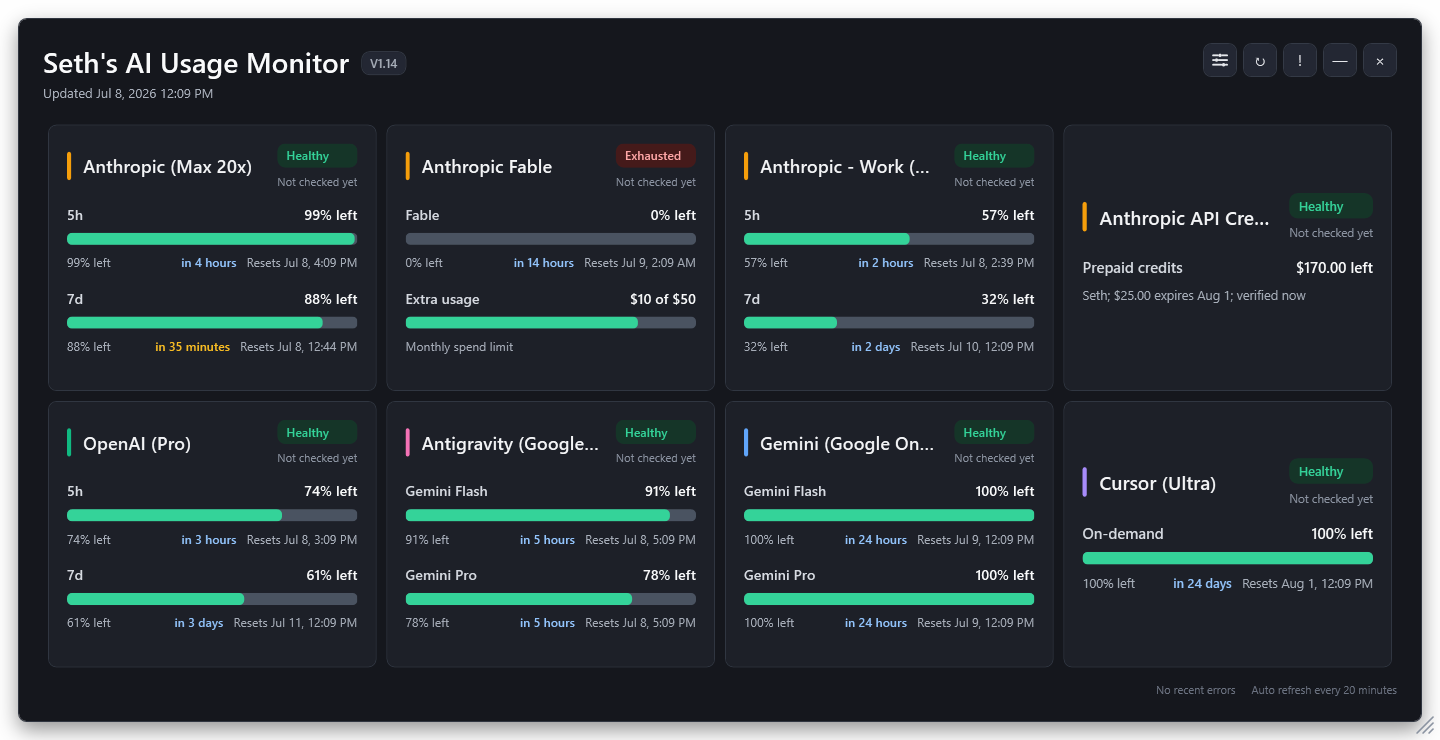
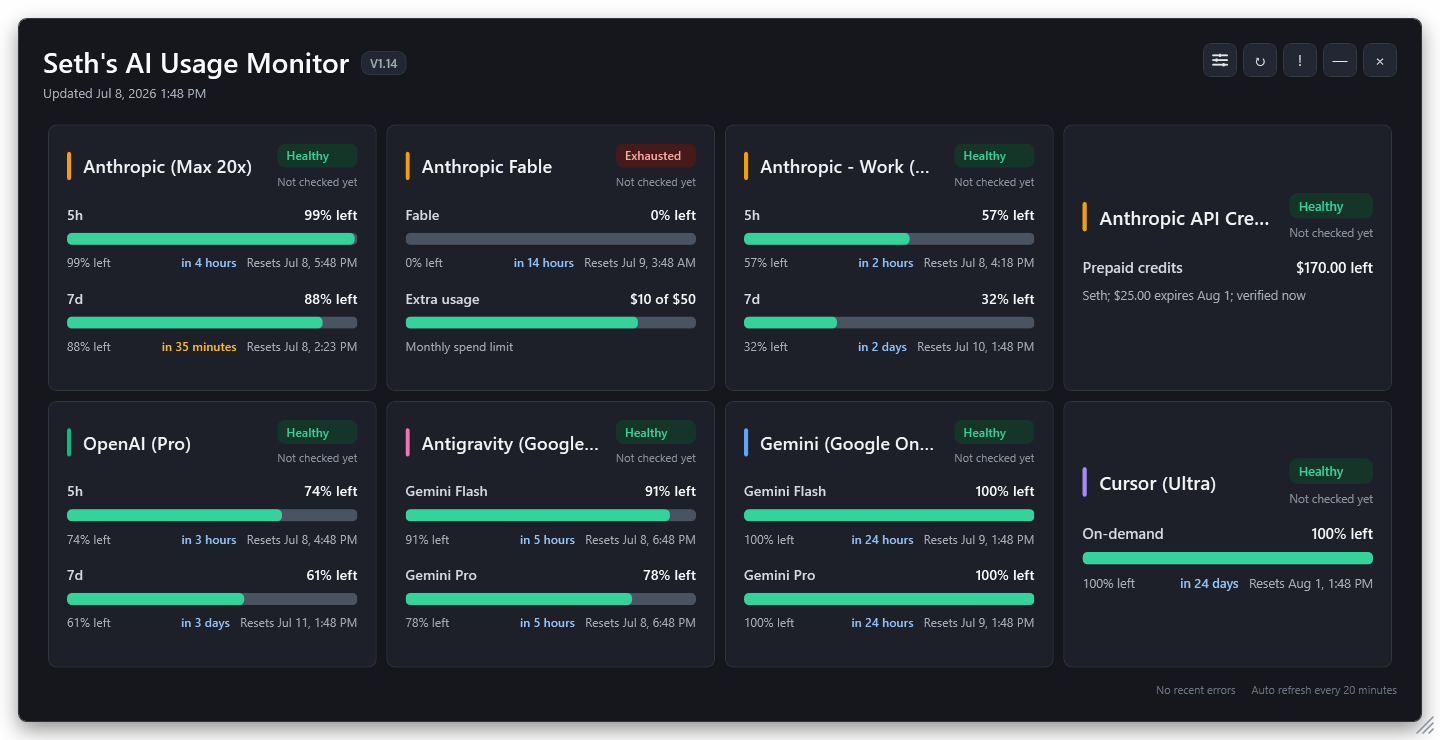
Add stacked MiniTall card layout for narrow-tall cells and detail-aware column selection

diff --git a/Views/UsageOverlayWindow.xaml b/Views/UsageOverlayWindow.xaml
@@ -115,6 +115,9 @@
                 <DataTrigger Binding="{Binding CardDetailLevel, RelativeSource={RelativeSource AncestorType=Window}}" Value="Mini">
                     <Setter Property="Visibility" Value="Collapsed" />
                 </DataTrigger>
+                <DataTrigger Binding="{Binding CardDetailLevel, RelativeSource={RelativeSource AncestorType=Window}}" Value="MiniTall">
+                    <Setter Property="Visibility" Value="Collapsed" />
+                </DataTrigger>
             </Style.Triggers>
         </Style>
 
@@ -131,6 +134,15 @@
             <Setter Property="Visibility" Value="Collapsed" />
             <Style.Triggers>
                 <DataTrigger Binding="{Binding CardDetailLevel, RelativeSource={RelativeSource AncestorType=Window}}" Value="Mini">
+                    <Setter Property="Visibility" Value="Visible" />
+                </DataTrigger>
+            </Style.Triggers>
+        </Style>
+
+        <Style x:Key="CardMiniTallOnlyElementStyle" TargetType="{x:Type FrameworkElement}">
+            <Setter Property="Visibility" Value="Collapsed" />
+            <Style.Triggers>
+                <DataTrigger Binding="{Binding CardDetailLevel, RelativeSource={RelativeSource AncestorType=Window}}" Value="MiniTall">
                     <Setter Property="Visibility" Value="Visible" />
                 </DataTrigger>
             </Style.Triggers>
@@ -176,6 +188,11 @@
                 <DataTrigger Binding="{Binding CardDetailLevel, RelativeSource={RelativeSource AncestorType=Window}}" Value="Mini">
                     <Setter Property="Margin" Value="3,2" />
                     <Setter Property="Padding" Value="6,4" />
+                    <Setter Property="MinHeight" Value="0" />
+                </DataTrigger>
+                <DataTrigger Binding="{Binding CardDetailLevel, RelativeSource={RelativeSource AncestorType=Window}}" Value="MiniTall">
+                    <Setter Property="Margin" Value="3,2" />
+                    <Setter Property="Padding" Value="8,6" />
                     <Setter Property="MinHeight" Value="0" />
                 </DataTrigger>
             </Style.Triggers>
@@ -627,6 +644,7 @@
                                                         <Binding Path="Windows.Count" />
                                                         <Binding Path="IsUnavailable" />
                                                         <Binding Path="StatusMessage" />
+                                                        <Binding Path="CardSlotWidth" RelativeSource="{RelativeSource AncestorType=Window}" />
                                                     </MultiBinding>
                                                 </ScaleTransform.ScaleX>
                                                 <ScaleTransform.ScaleY>
@@ -637,6 +655,7 @@
                                                         <Binding Path="Windows.Count" />
                                                         <Binding Path="IsUnavailable" />
                                                         <Binding Path="StatusMessage" />
+                                                        <Binding Path="CardSlotWidth" RelativeSource="{RelativeSource AncestorType=Window}" />
                                                     </MultiBinding>
                                                 </ScaleTransform.ScaleY>
                                             </ScaleTransform>
@@ -829,6 +848,55 @@
                                                                        FontWeight="SemiBold"
                                                                        VerticalAlignment="Center" />
                                                         </Grid>
+                                                    </DataTemplate>
+                                                </ItemsControl.ItemTemplate>
+                                            </ItemsControl>
+                                        </StackPanel>
+
+                                        <StackPanel Style="{StaticResource CardMiniTallOnlyElementStyle}"
+                                                    VerticalAlignment="Center">
+                                            <TextBlock Text="{Binding MiniSummaryText}"
+                                                       Foreground="#F3F4F6"
+                                                       FontSize="12"
+                                                       FontWeight="SemiBold"
+                                                       TextTrimming="CharacterEllipsis" />
+                                            <ItemsControl ItemsSource="{Binding Windows}">
+                                                <ItemsControl.ItemTemplate>
+                                                    <DataTemplate>
+                                                        <StackPanel Margin="0,5,0,0">
+                                                            <ProgressBar Height="5"
+                                                                         Value="{Binding RemainingPercent, Mode=OneWay}"
+                                                                         Foreground="{Binding ProgressBrush}">
+                                                                <ProgressBar.Style>
+                                                                    <Style TargetType="{x:Type ProgressBar}"
+                                                                           BasedOn="{StaticResource UsageProgressBarStyle}">
+                                                                        <Style.Triggers>
+                                                                            <DataTrigger Binding="{Binding ShowsProgress}" Value="False">
+                                                                                <Setter Property="Visibility" Value="Collapsed" />
+                                                                            </DataTrigger>
+                                                                        </Style.Triggers>
+                                                                    </Style>
+                                                                </ProgressBar.Style>
+                                                            </ProgressBar>
+                                                            <Grid Margin="0,3,0,0">
+                                                                <Grid.ColumnDefinitions>
+                                                                    <ColumnDefinition Width="*" />
+                                                                    <ColumnDefinition Width="Auto" />
+                                                                </Grid.ColumnDefinitions>
+                                                                <TextBlock Text="{Binding Title}"
+                                                                           Foreground="#A8AFBA"
+                                                                           FontSize="10"
+                                                                           TextTrimming="CharacterEllipsis"
+                                                                           VerticalAlignment="Center" />
+                                                                <TextBlock Grid.Column="1"
+                                                                           Margin="8,0,0,0"
+                                                                           Text="{Binding ResetRelativeText}"
+                                                                           Foreground="{Binding ResetRelativeBrush}"
+                                                                           FontSize="10"
+                                                                           FontWeight="SemiBold"
+                                                                           VerticalAlignment="Center" />
+                                                            </Grid>
+                                                        </StackPanel>
                                                     </DataTemplate>
                                                 </ItemsControl.ItemTemplate>
                                             </ItemsControl>

diff --git a/Views/ProviderCardScaleConverter.cs b/Views/ProviderCardScaleConverter.cs
@@ -6,32 +6,64 @@ namespace AIUsageMonitor.Views;
 public sealed class ProviderCardScaleConverter : IMultiValueConverter
 {
     private const string FullDisplayMode = "Full";
+    private const string MiniTallDisplayMode = "MiniTall";
     private const double FullCardVerticalOuterInset = 46;
     private const double FullCardHeaderHeight = 42;
     private const double FullCardStatusMessageHeight = 38;
     private const double FullCardWindowsTopMargin = 16;
     private const double FullCardUsageWindowHeight = 79;
     private const double MinimumFullCardScale = 0.72;
+    private const double MiniTallCardVerticalOuterInset = 22;
+    private const double MiniTallCardHorizontalOuterInset = 24;
+    private const double MiniTallCardHeaderHeight = 17;
+    private const double MiniTallCardUsageWindowHeight = 26;
+    private const double MiniTallCardNaturalContentWidth = 140;
+    private const double MinimumMiniTallCardScale = 0.7;
+    private const double MaximumMiniTallCardScale = 1.4;
 
     public object Convert(object[] values, Type targetType, object parameter, CultureInfo culture)
     {
         var baseScale = GetDouble(values, 0, 1d);
         var cardSlotHeight = GetDouble(values, 1, double.PositiveInfinity);
         var detailLevel = values.Length > 2 ? values[2] as string : null;
-        if (!string.Equals(detailLevel, FullDisplayMode, StringComparison.Ordinal) ||
-            !double.IsFinite(cardSlotHeight) ||
-            cardSlotHeight <= FullCardVerticalOuterInset)
+
+        if (string.Equals(detailLevel, FullDisplayMode, StringComparison.Ordinal) &&
+            double.IsFinite(cardSlotHeight) &&
+            cardSlotHeight > FullCardVerticalOuterInset)
         {
-            return baseScale;
+            var windowCount = GetInt(values, 3);
+            var hasStatusMessage = GetBool(values, 4) && !string.IsNullOrWhiteSpace(values.Length > 5 ? values[5] as string : null);
+            var estimatedContentHeight = EstimateFullCardContentHeight(windowCount, hasStatusMessage);
+            var availableContentHeight = Math.Max(1, cardSlotHeight - FullCardVerticalOuterInset);
+            var heightScaleLimit = availableContentHeight / estimatedContentHeight;
+
+            return Math.Clamp(Math.Min(baseScale, heightScaleLimit), MinimumFullCardScale, baseScale);
         }
 
-        var windowCount = GetInt(values, 3);
-        var hasStatusMessage = GetBool(values, 4) && !string.IsNullOrWhiteSpace(values.Length > 5 ? values[5] as string : null);
-        var estimatedContentHeight = EstimateFullCardContentHeight(windowCount, hasStatusMessage);
-        var availableContentHeight = Math.Max(1, cardSlotHeight - FullCardVerticalOuterInset);
-        var heightScaleLimit = availableContentHeight / estimatedContentHeight;
+        if (string.Equals(detailLevel, MiniTallDisplayMode, StringComparison.Ordinal) &&
+            double.IsFinite(cardSlotHeight) &&
+            cardSlotHeight > MiniTallCardVerticalOuterInset)
+        {
+            var windowCount = GetInt(values, 3);
+            var estimatedContentHeight = Math.Max(1, MiniTallCardHeaderHeight + windowCount * MiniTallCardUsageWindowHeight);
+            var availableContentHeight = Math.Max(1, cardSlotHeight - MiniTallCardVerticalOuterInset);
+            var heightScaleLimit = availableContentHeight / estimatedContentHeight;
+            if (heightScaleLimit < 1)
+            {
+                return Math.Clamp(heightScaleLimit, MinimumMiniTallCardScale, 1d);
+            }
 
-        return Math.Clamp(Math.Min(baseScale, heightScaleLimit), MinimumFullCardScale, baseScale);
+            // Spare height: grow the stacked content to fill the cell, but never past what the
+            // cell width can hold without over-trimming the provider / window names.
+            var cardSlotWidth = GetDouble(values, 6, double.NaN);
+            var widthScaleLimit = double.IsFinite(cardSlotWidth) && cardSlotWidth > MiniTallCardHorizontalOuterInset
+                ? (cardSlotWidth - MiniTallCardHorizontalOuterInset) / MiniTallCardNaturalContentWidth
+                : 1d;
+
+            return Math.Clamp(Math.Min(heightScaleLimit, widthScaleLimit), 1d, MaximumMiniTallCardScale);
+        }
+
+        return baseScale;
     }
 
     public object[] ConvertBack(object value, Type[] targetTypes, object parameter, CultureInfo culture)

diff --git a/Views/UsageOverlayWindow.xaml.cs b/Views/UsageOverlayWindow.xaml.cs
@@ -16,6 +16,7 @@ public partial class UsageOverlayWindow : Window
     private const string FullDisplayMode = "Full";
     private const string CompactDisplayMode = "Compact";
     private const string MiniDisplayMode = "Mini";
+    private const string MiniTallDisplayMode = "MiniTall";
     private const double CompactWidthBreakpoint = 760;
     private const double MiniWidthBreakpoint = 500;
     private const double MiniHeightBreakpoint = 290;
@@ -27,6 +28,8 @@ public partial class UsageOverlayWindow : Window
     private const double CardFullMinCellHeight = 250;
     private const double CardCompactMinCellWidth = 200;
     private const double CardCompactMinCellHeight = 90;
+    private const double CardMiniTallMinCellWidth = 112;
+    private const double CardMiniTallMinCellHeight = 82;
     private const double MaxCardScale = 1.5;
     private const double CardScaleBaseWidth = 300;
     private const double CardScaleBaseHeight = 250;
@@ -525,6 +528,11 @@ public partial class UsageOverlayWindow : Window
             CardSlotHeight = cellHeight;
         }
 
+        if (Math.Abs(CardSlotWidth - cellWidth) > 0.001)
+        {
+            CardSlotWidth = cellWidth;
+        }
+
         var detailLevel = GetCardDetailLevel(cellWidth, cellHeight);
         if (!string.Equals(CardDetailLevel, detailLevel, StringComparison.Ordinal))
         {
@@ -610,8 +618,11 @@ public partial class UsageOverlayWindow : Window
         return FullDisplayMode;
     }
 
-    // Pick the column count whose resulting cells sit closest to a comfortable card aspect ratio,
-    // so a wide window spreads cards across columns and a tall / narrow window stacks them into rows.
+    // Pick the column count whose cells show the most information: prefer the layout that unlocks
+    // the richest card detail level, and only then fall back to the comfortable-aspect score. This
+    // keeps a wide window spreading cards across columns and a tall / narrow window stacking rows,
+    // but never picks a pretty-shaped grid whose cells can only fit a one-line Mini card when a
+    // different column count would fit Full / Compact / stacked cards.
     private static int ChooseCardColumns(double availableWidth, double availableHeight, int providerCount)
     {
         if (providerCount <= 1)
@@ -620,6 +631,7 @@ public partial class UsageOverlayWindow : Window
         }
 
         var bestColumns = 1;
+        var bestRank = -1;
         var bestScore = double.MaxValue;
         for (var columns = 1; columns <= providerCount; columns++)
         {
@@ -631,16 +643,29 @@ public partial class UsageOverlayWindow : Window
                 continue;
             }
 
+            var rank = GetCardDetailRank(GetCardDetailLevel(cellWidth, cellHeight));
             var aspect = cellWidth / cellHeight;
             var score = Math.Abs(Math.Log(aspect) - Math.Log(CardAreaTargetAspect)) + 0.08 * (columns * rows - providerCount);
-            if (score < bestScore)
+            if (rank > bestRank || (rank == bestRank && score < bestScore))
             {
+                bestRank = rank;
                 bestScore = score;
                 bestColumns = columns;
             }
         }
 
         return bestColumns;
+    }
+
+    private static int GetCardDetailRank(string detailLevel)
+    {
+        return detailLevel switch
+        {
+            FullDisplayMode => 3,
+            CompactDisplayMode => 2,
+            MiniTallDisplayMode => 1,
+            _ => 0
+        };
     }
 
     private static string GetCardDetailLevel(double cellWidth, double cellHeight)
@@ -653,6 +678,13 @@ public partial class UsageOverlayWindow : Window
         if (cellWidth >= CardCompactMinCellWidth && cellHeight >= CardCompactMinCellHeight)
         {
             return CompactDisplayMode;
+        }
+
+        // Narrow-but-tall cells can't fit Compact's side-by-side window rows, but they have
+        // vertical room for a stacked variant with per-window bars and reset times.
+        if (cellWidth >= CardMiniTallMinCellWidth && cellHeight >= CardMiniTallMinCellHeight)
+        {
+            return MiniTallDisplayMode;
         }
 
         return MiniDisplayMode;
